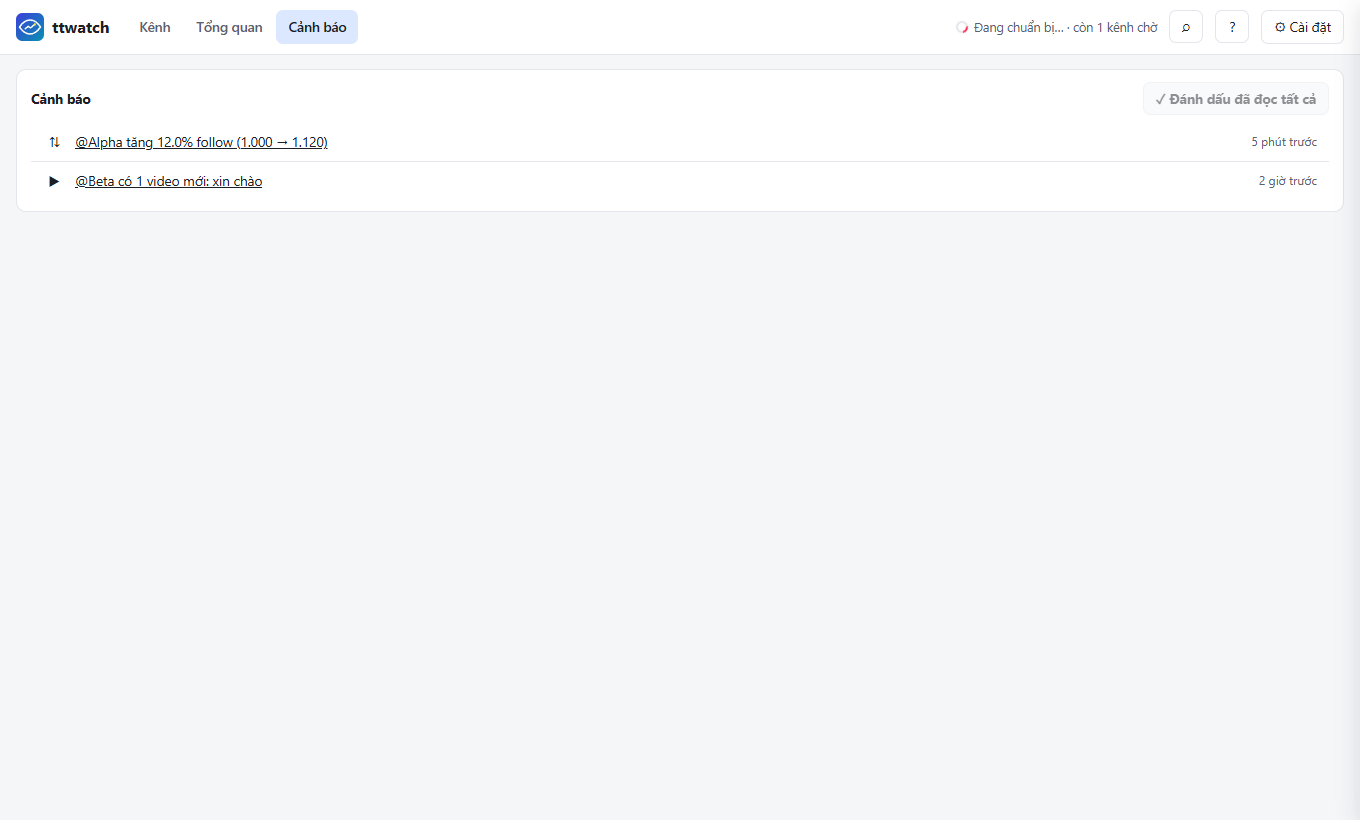
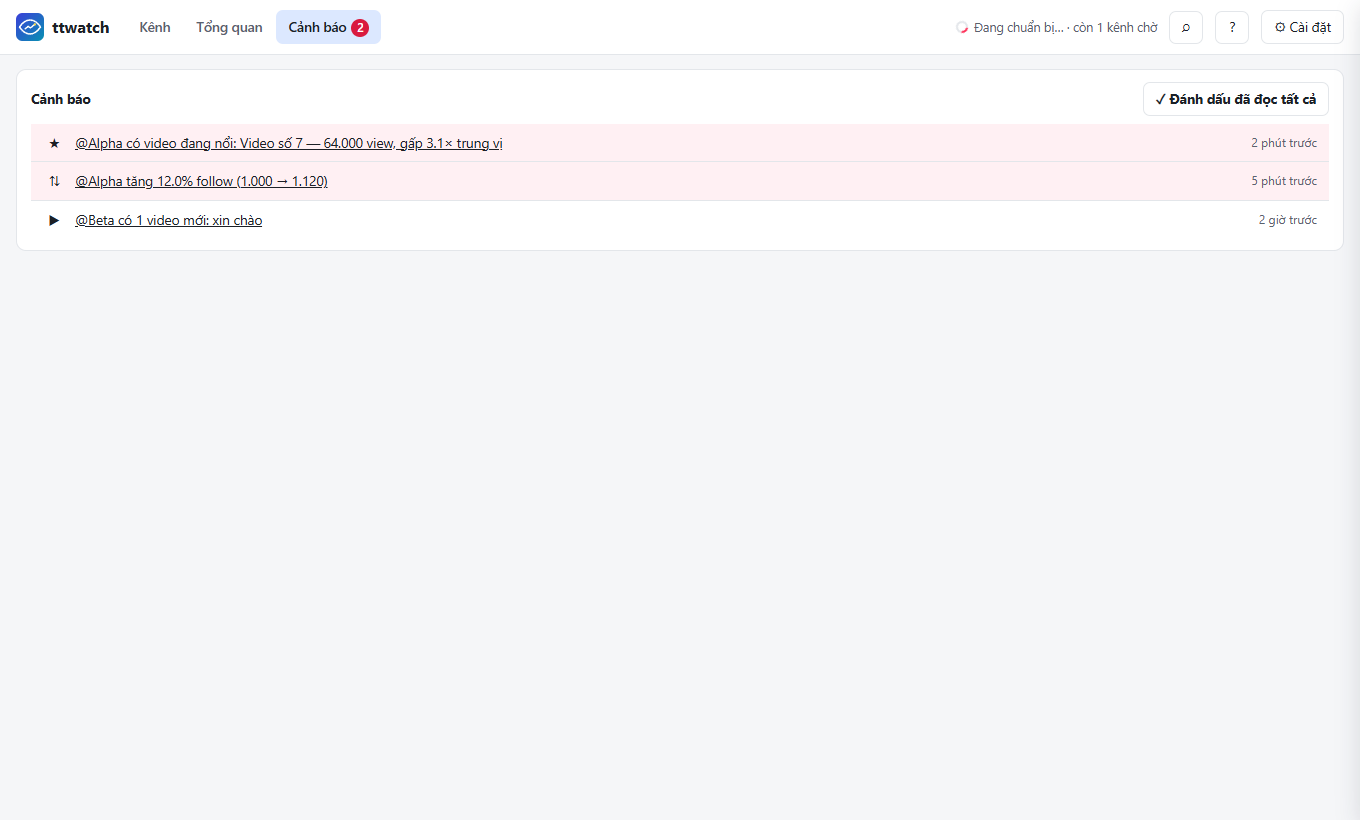
Seed a standout video alert in the UI tests and screenshot the settings dialog. (#5)

diff --git a/tests/test_ui.py b/tests/test_ui.py
@@ -48,6 +48,7 @@ def _seed(db):
             )
         c.execute("INSERT INTO alerts(username, kind, text, ts) VALUES('alpha','followers','@Alpha tăng 12.0% follow (1.000 → 1.120)',?)", (NOW - 300,))
         c.execute("INSERT INTO alerts(username, kind, text, ts, read) VALUES('beta','new_video','@Beta có 1 video mới: xin chào',?,1)", (NOW - 9000,))
+        c.execute("INSERT INTO alerts(username, kind, text, ts) VALUES('alpha','viral','@Alpha có video đang nổi: Video số 7 — 64.000 view, gấp 3.1× trung vị',?)", (NOW - 120,))
     db.set_status("gamma", "error", "Kênh không tồn tại hoặc bị khóa")
 
 
@@ -138,13 +139,14 @@ class UiTest(unittest.TestCase):
         self.assertIn("@Alpha", p.locator("#pane-overview").inner_text())
         self.assertTrue(p.url.endswith("#overview"))
         self.shot("overview")
-        self.assertEqual(p.locator("#alertCount").inner_text(), "1")
+        self.assertEqual(p.locator("#alertCount").inner_text(), "2")
         p.click('.tab[data-tab="alerts"]')
         p.wait_for_selector(".alert-item.unread")
-        self.assertEqual(p.locator(".alert-item").count(), 2)
+        self.assertEqual(p.locator(".alert-item").count(), 3)
+        self.assertEqual(p.locator(".alert-item").first.locator(".alert-ico").inner_text(), "★")
+        self.shot("alerts")
         p.click("#alertsRead")
         p.wait_for_selector("#alertCount", state="hidden")
-        self.shot("alerts")
         p.keyboard.press("1")
         self.assertTrue(p.locator("#pane-channels").is_visible())
 
@@ -528,6 +530,7 @@ class UiTest(unittest.TestCase):
         p.click("#btnSettings")
         p.wait_for_selector("#dlgSettings[open]")
         self.assertEqual(p.locator("#setAlertViral").input_value(), "3")
+        self.shot("settings")
         p.fill("#setAlertViral", "0")
         try:
             p.click("#setSave")
